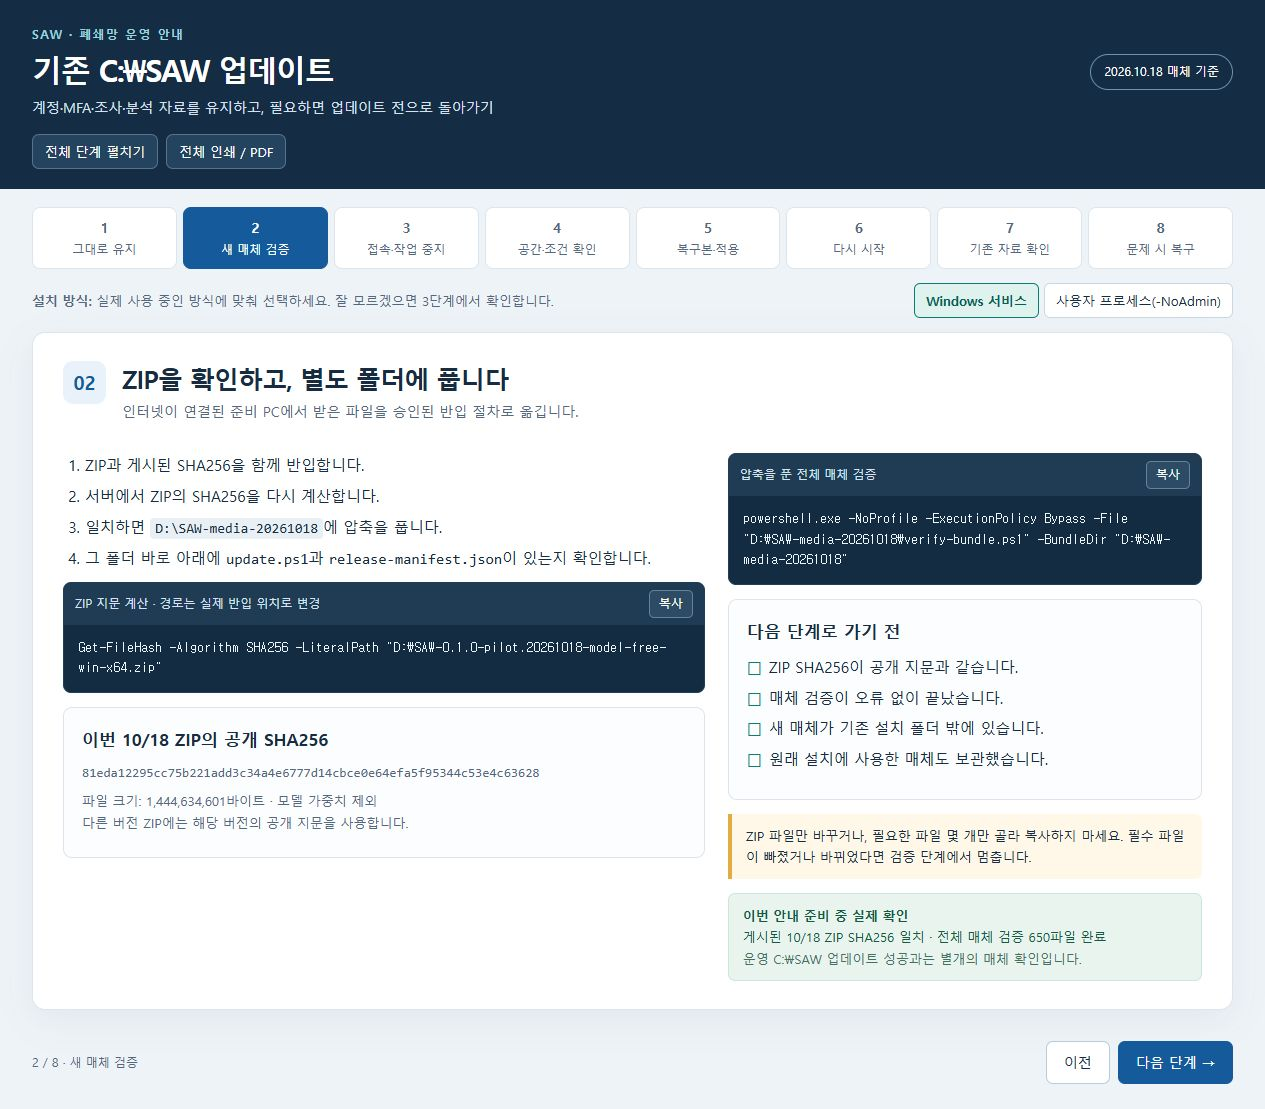
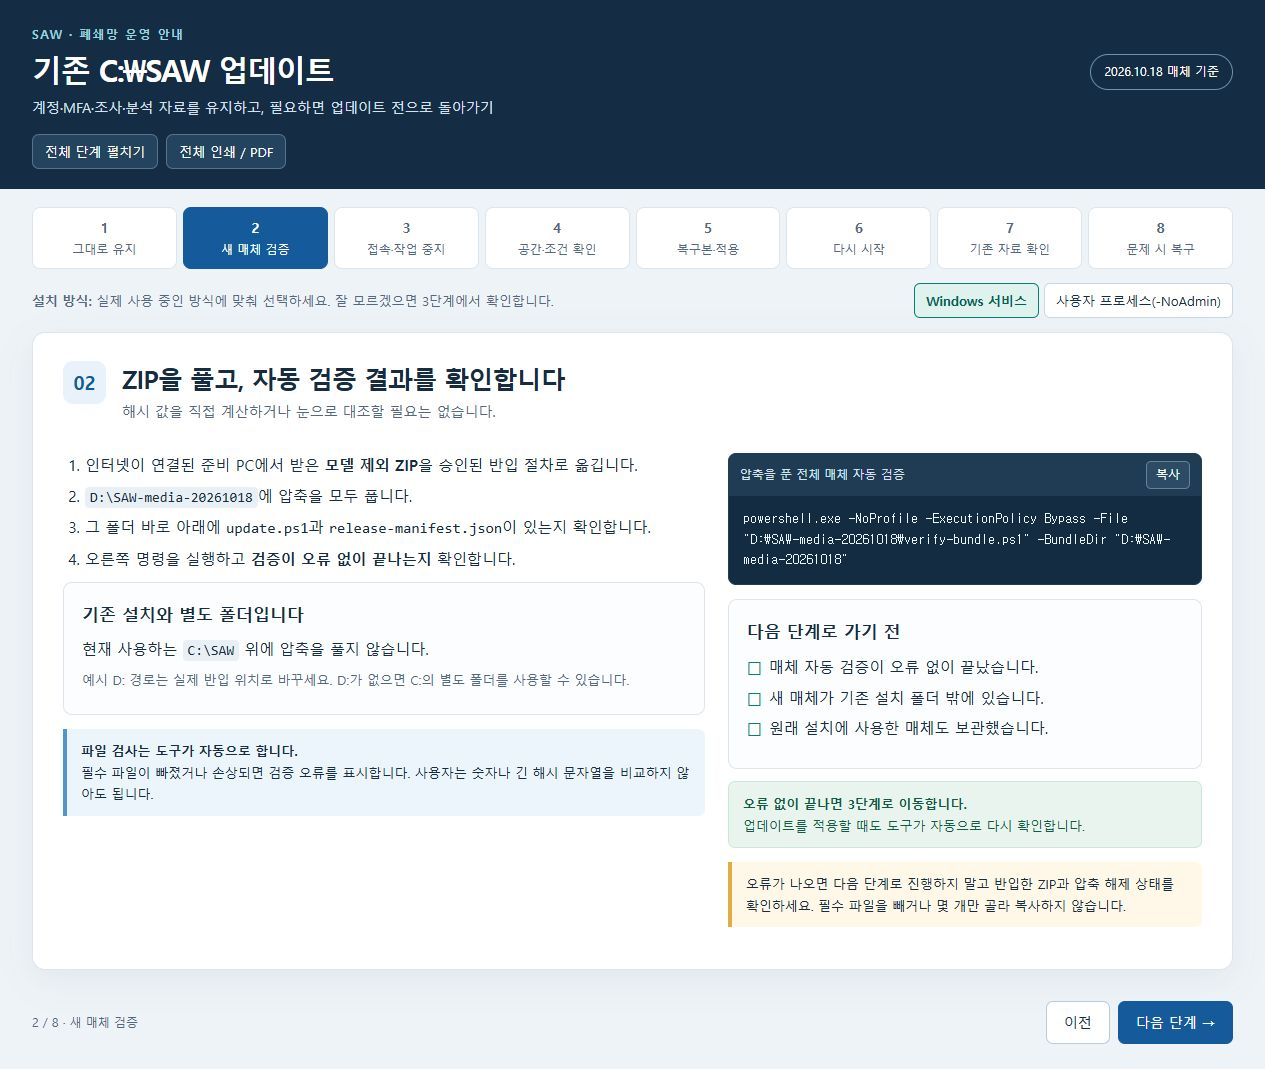
docs: remove manual hash comparison from update walkthrough

diff --git a/docs/OFFLINE-UPDATE-WALKTHROUGH-2026-10-18.html b/docs/OFFLINE-UPDATE-WALKTHROUGH-2026-10-18.html
@@ -56,15 +56,16 @@ body.show-all .page{margin-bottom:18px}body.show-all .page[hidden]{display:block
 </section>
 
 <section class="page" data-page="1" aria-labelledby="title-1" hidden>
-<div class="page-head"><span class="number">02</span><div><h2 id="title-1">ZIP을 확인하고, 별도 폴더에 풉니다</h2><p class="lead">인터넷이 연결된 준비 PC에서 받은 파일을 승인된 반입 절차로 옮깁니다.</p></div></div>
+<div class="page-head"><span class="number">02</span><div><h2 id="title-1">ZIP을 풀고, 자동 검증 결과를 확인합니다</h2><p class="lead">해시 값을 직접 계산하거나 눈으로 대조할 필요는 없습니다.</p></div></div>
 <div class="grid"><div>
-<ol><li>ZIP과 게시된 SHA256을 함께 반입합니다.</li><li>서버에서 ZIP의 SHA256을 다시 계산합니다.</li><li>일치하면 <code class="inline">D:\SAW-media-20261018</code>에 압축을 풉니다.</li><li>그 폴더 바로 아래에 <code>update.ps1</code>과 <code>release-manifest.json</code>이 있는지 확인합니다.</li></ol>
-<div class="command"><div class="command-head"><span>ZIP 지문 계산 · 경로는 실제 반입 위치로 변경</span><button class="copy" data-copy="cmd-hash">복사</button></div><pre id="cmd-hash">Get-FileHash -Algorithm SHA256 -LiteralPath "D:\SAW-0.1.0-pilot.20261018-model-free-win-x64.zip"</pre></div>
-<div class="card"><h3>이번 10/18 ZIP의 공개 SHA256</h3><code class="small" style="display:block;word-break:break-all">81eda12295cc75b221add3c34a4e6777d14cbce0e64efa5f95344c53e4c63628</code><p class="small">파일 크기: 1,444,634,601바이트 · 모델 가중치 제외<br>다른 버전 ZIP에는 해당 버전의 공개 지문을 사용합니다.</p></div>
+<ol><li>인터넷이 연결된 준비 PC에서 받은 <strong>모델 제외 ZIP</strong>을 승인된 반입 절차로 옮깁니다.</li><li><code class="inline">D:\SAW-media-20261018</code>에 압축을 모두 풉니다.</li><li>그 폴더 바로 아래에 <code>update.ps1</code>과 <code>release-manifest.json</code>이 있는지 확인합니다.</li><li>오른쪽 명령을 실행하고 <strong>검증이 오류 없이 끝나는지</strong> 확인합니다.</li></ol>
+<div class="card"><h3>기존 설치와 별도 폴더입니다</h3><p>현재 사용하는 <code class="inline">C:\SAW</code> 위에 압축을 풀지 않습니다.</p><p class="small">예시 D: 경로는 실제 반입 위치로 바꾸세요. D:가 없으면 C:의 별도 폴더를 사용할 수 있습니다.</p></div>
+<div class="notice info"><strong>파일 검사는 도구가 자동으로 합니다.</strong><br>필수 파일이 빠졌거나 손상되면 검증 오류를 표시합니다. 사용자는 숫자나 긴 해시 문자열을 비교하지 않아도 됩니다.</div>
 </div><div>
-<div class="command"><div class="command-head"><span>압축을 푼 전체 매체 검증</span><button class="copy" data-copy="cmd-verify">복사</button></div><pre id="cmd-verify">powershell.exe -NoProfile -ExecutionPolicy Bypass -File "D:\SAW-media-20261018\verify-bundle.ps1" -BundleDir "D:\SAW-media-20261018"</pre></div>
-<div class="card"><h3>다음 단계로 가기 전</h3><ul class="checks"><li>ZIP SHA256이 공개 지문과 같습니다.</li><li>매체 검증이 오류 없이 끝났습니다.</li><li>새 매체가 기존 설치 폴더 밖에 있습니다.</li><li>원래 설치에 사용한 매체도 보관했습니다.</li></ul></div>
-<div class="notice">ZIP 파일만 바꾸거나, 필요한 파일 몇 개만 골라 복사하지 마세요. 필수 파일이 빠졌거나 바뀌었다면 검증 단계에서 멈춥니다.</div><div class="expected"><strong>이번 안내 준비 중 실제 확인</strong><br>게시된 10/18 ZIP SHA256 일치 · 전체 매체 검증 650파일 완료<br><span class="small">운영 C:\SAW 업데이트 성공과는 별개의 매체 확인입니다.</span></div>
+<div class="command"><div class="command-head"><span>압축을 푼 전체 매체 자동 검증</span><button class="copy" data-copy="cmd-verify">복사</button></div><pre id="cmd-verify">powershell.exe -NoProfile -ExecutionPolicy Bypass -File "D:\SAW-media-20261018\verify-bundle.ps1" -BundleDir "D:\SAW-media-20261018"</pre></div>
+<div class="card"><h3>다음 단계로 가기 전</h3><ul class="checks"><li>매체 자동 검증이 오류 없이 끝났습니다.</li><li>새 매체가 기존 설치 폴더 밖에 있습니다.</li><li>원래 설치에 사용한 매체도 보관했습니다.</li></ul></div>
+<div class="expected"><strong>오류 없이 끝나면 3단계로 이동합니다.</strong><br>업데이트를 적용할 때도 도구가 자동으로 다시 확인합니다.</div>
+<div class="notice">오류가 나오면 다음 단계로 진행하지 말고 반입한 ZIP과 압축 해제 상태를 확인하세요. 필수 파일을 빼거나 몇 개만 골라 복사하지 않습니다.</div>
 </div></div>
 </section>
 

diff --git a/PROGRESS.md b/PROGRESS.md
@@ -1,3 +1,12 @@
+## 2026-10-18 업데이트 안내 r2: 수동 해시 대조 제거
+
+- 사용자 요청으로 세 업데이트 안내서의 Get-FileHash·SHA256 눈대조 단계를 제거했다. verify-bundle/update.ps1 자동 무결성 검증과 계정·분석 자료 보존 계약은 그대로다. 제품·설치 코드는 변경하지 않았다.
+- 2단계 브라우저 화면을 다시 확인·캡처했다. 관련 시험27통과/기존경고1(8.17초), PS5.1 명령13개 구문 검사 및 독립 문서 검토 PASS. 실제 설치·업데이트·복구는 이번 문서 수정에서 재실행하지 않았다.
+- 비공개 GitHub 기존 사전 배포에 SAW-update-guide-20261018-r2.zip(1,094,623바이트)을 추가하고 원격 대조했다. 기존11자산 보존. 현재 그림 안내는 r2를 사용한다.
+- [수정 검증](docs/verification/update-guide-r2-2026-10-18.json), [게시 대조](docs/verification/github-update-guide-r2-2026-10-18.json). 기존 운영 인수 게이트 유지.
+
+---
+
 ## 2026-10-18 기존 설치 업데이트 그림 안내·실제 복구 확인
 
 - 사용자 요청에 따라 [8단계 그림 안내](docs/OFFLINE-UPDATE-SCREENSHOTS-2026-10-18.md)와 [단일 HTML](docs/OFFLINE-UPDATE-WALKTHROUGH-2026-10-18.html)을 작성했다. 서비스/NoAdmin 명령, 같은 드라이브 복구 공간, 전체 시점 복구와 계정 변경의 되돌림을 설명했다. 기존 update.ps1 및 제품 코드는 변경하지 않았다.

diff --git a/STATE.md b/STATE.md
@@ -1,3 +1,12 @@
+## 2026-10-18 업데이트 안내 r2: 수동 해시 대조 제거
+
+- 사용자 요청으로 세 업데이트 안내서의 Get-FileHash·SHA256 눈대조 단계를 제거했다. verify-bundle/update.ps1 자동 무결성 검증과 계정·분석 자료 보존 계약은 그대로다. 제품·설치 코드는 변경하지 않았다.
+- 2단계 브라우저 화면을 다시 확인·캡처했다. 관련 시험27통과/기존경고1(8.17초), PS5.1 명령13개 구문 검사 및 독립 문서 검토 PASS. 실제 설치·업데이트·복구는 이번 문서 수정에서 재실행하지 않았다.
+- 비공개 GitHub 기존 사전 배포에 SAW-update-guide-20261018-r2.zip(1,094,623바이트)을 추가하고 원격 대조했다. 기존11자산 보존. 현재 그림 안내는 r2를 사용한다.
+- [수정 검증](docs/verification/update-guide-r2-2026-10-18.json), [게시 대조](docs/verification/github-update-guide-r2-2026-10-18.json). 기존 운영 인수 게이트 유지.
+
+---
+
 ## 2026-10-18 기존 설치 업데이트 그림 안내·실제 복구 확인
 
 - 사용자 요청에 따라 [8단계 그림 안내](docs/OFFLINE-UPDATE-SCREENSHOTS-2026-10-18.md)와 [단일 HTML](docs/OFFLINE-UPDATE-WALKTHROUGH-2026-10-18.html)을 작성했다. 서비스/NoAdmin 명령, 같은 드라이브 복구 공간, 전체 시점 복구와 계정 변경의 되돌림을 설명했다. 기존 update.ps1 및 제품 코드는 변경하지 않았다.

diff --git a/docs/HANDOVER.md b/docs/HANDOVER.md
@@ -1,3 +1,12 @@
+## 2026-10-18 업데이트 안내 r2: 수동 해시 대조 제거
+
+- 사용자 요청으로 세 업데이트 안내서의 Get-FileHash·SHA256 눈대조 단계를 제거했다. verify-bundle/update.ps1 자동 무결성 검증과 계정·분석 자료 보존 계약은 그대로다. 제품·설치 코드는 변경하지 않았다.
+- 2단계 브라우저 화면을 다시 확인·캡처했다. 관련 시험27통과/기존경고1(8.17초), PS5.1 명령13개 구문 검사 및 독립 문서 검토 PASS. 실제 설치·업데이트·복구는 이번 문서 수정에서 재실행하지 않았다.
+- 비공개 GitHub 기존 사전 배포에 SAW-update-guide-20261018-r2.zip(1,094,623바이트)을 추가하고 원격 대조했다. 기존11자산 보존. 현재 그림 안내는 r2를 사용한다.
+- [수정 검증](verification/update-guide-r2-2026-10-18.json), [게시 대조](verification/github-update-guide-r2-2026-10-18.json). 기존 운영 인수 게이트 유지.
+
+---
+
 ## 2026-10-18 기존 설치 업데이트 그림 안내·실제 복구 확인
 
 - 사용자 요청에 따라 [8단계 그림 안내](OFFLINE-UPDATE-SCREENSHOTS-2026-10-18.md)와 [단일 HTML](OFFLINE-UPDATE-WALKTHROUGH-2026-10-18.html)을 작성했다. 서비스/NoAdmin 명령, 같은 드라이브 복구 공간, 전체 시점 복구와 계정 변경의 되돌림을 설명했다. 기존 update.ps1 및 제품 코드는 변경하지 않았다.

diff --git a/docs/OFFLINE-UPDATE-SCREENSHOTS-2026-10-18.md b/docs/OFFLINE-UPDATE-SCREENSHOTS-2026-10-18.md
@@ -14,11 +14,11 @@
 
 ![기존 설치를 보존하는 폴더 구성](screenshots/update-2026-10-18/01-folders.jpg)
 
-## 2. 반입한 새 ZIP을 검증합니다
+## 2. 새 ZIP을 풀고 자동 검증 결과를 확인합니다
 
-[10/18 사전 배포](https://github.com/dewdorp/SAW/releases/tag/v0.1.0-pilot.20261018)에서 모델 제외 ZIP과 공개 SHA256을 받아 승인된 경로로 반입합니다. ZIP 지문을 대조하고 별도 폴더에 압축을 푼 뒤 verify-bundle.ps1로 전체 매체를 확인합니다.
+[10/18 사전 배포](https://github.com/dewdorp/SAW/releases/tag/v0.1.0-pilot.20261018)에서 모델 제외 ZIP을 받아 승인된 경로로 반입합니다. 별도 폴더에 압축을 모두 푼 뒤 verify-bundle.ps1을 실행하고 오류 없이 끝나는지만 확인합니다. 해시 값을 직접 계산하거나 눈으로 대조할 필요는 없습니다. 업데이트 도구의 자동 검증은 그대로 동작합니다.
 
-![ZIP 지문과 압축 해제 매체 확인](screenshots/update-2026-10-18/02-media.jpg)
+![압축 해제 후 자동 검증 결과 확인](screenshots/update-2026-10-18/02-media.jpg)
 
 ## 3. 작업을 마치고 서버 전체를 중지합니다
 
